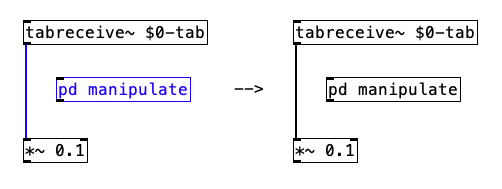
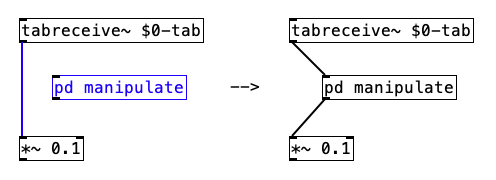
fix image for connection-insert, remove INCLUDE comments

diff --git a/doc/1.manual/x2.htm b/doc/1.manual/x2.htm
@@ -618,7 +618,7 @@ gets inserted in the connection.
 </P></CENTER>
 
 <P> To bypass a box, you can select 3 boxes connected in a row and use
-<code>Cmd + K</code> to bypass and remove the middle box from the connection. (INCLUDE PIC).
+<code>Cmd + K</code> to bypass and remove the middle box from the connection.
 
 <CENTER><P>
     <IMG src="fig-ch2-dis-connect-exclude-box-from-connection.png"
@@ -647,7 +647,7 @@ To do so, select a connection and use <code>Cmd + T</code>. For a control
 connection, a [t a] object is created with the text selected, so you
 can type another text to include another object instead. For a signal
 connection, a [pd nop~] subpatch is created, also with the text selected
-for you to include a new object. (INCLUDE PIC)
+for you to include a new object.
 
 <CENTER><P>
     <IMG src="fig-ch2-triggerize-insert-box-to-connection.png"
